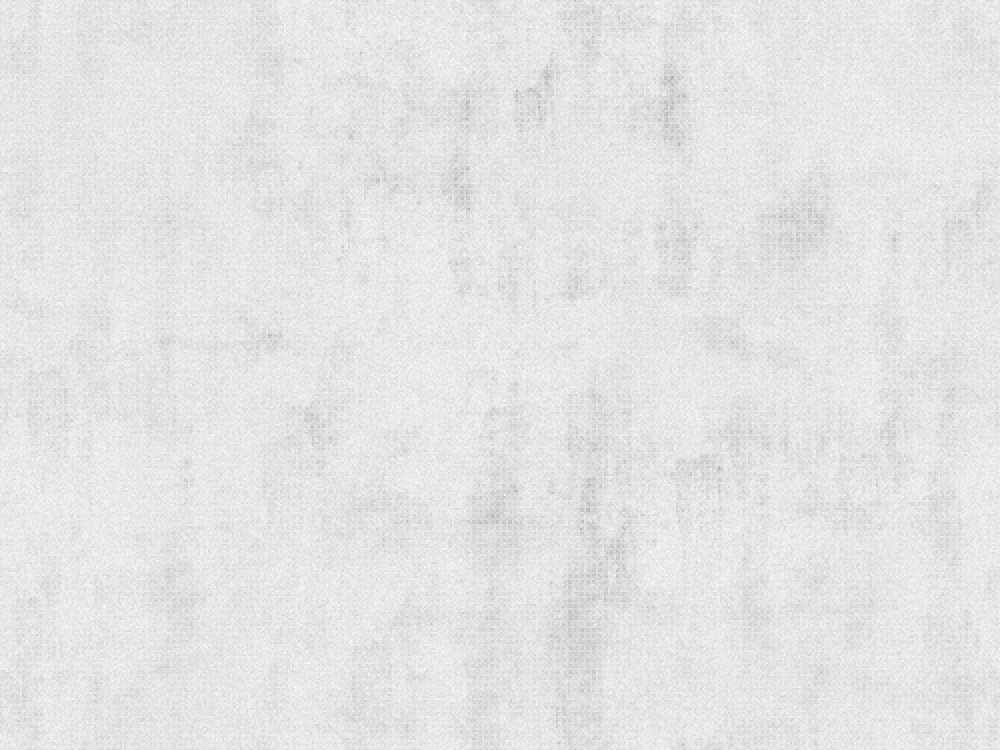
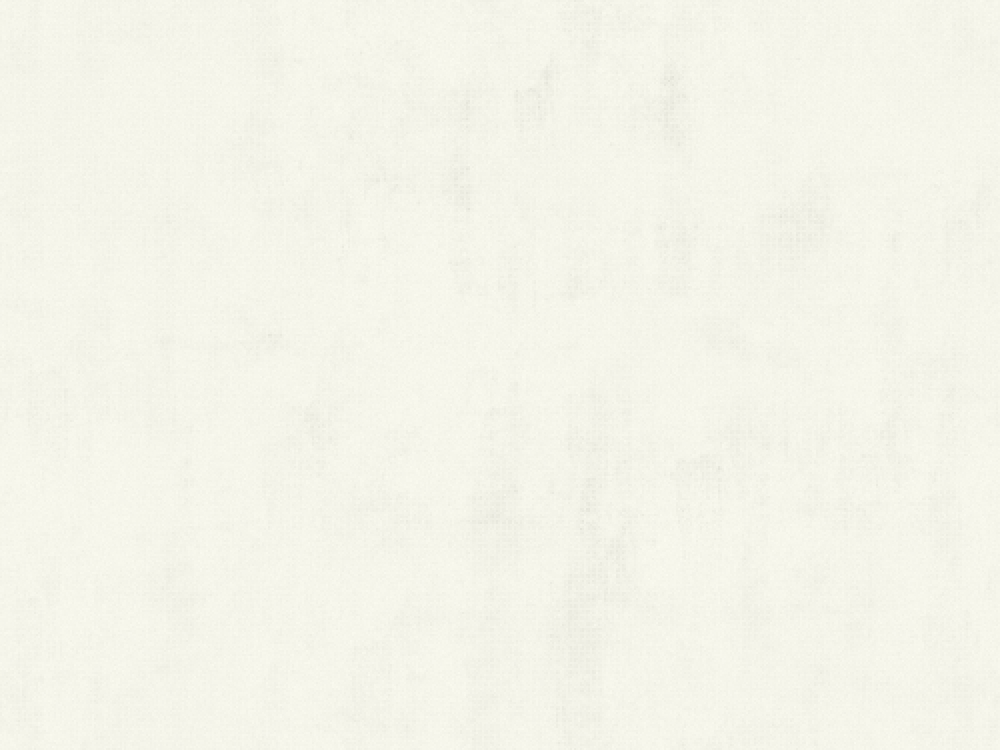
added sticky footer css.

diff --git a/assets/themes/salsacaribecouk/css/global.css b/assets/themes/salsacaribecouk/css/global.css
@@ -441,6 +441,11 @@ h1, h2, h3, h4, h5, h6 {
   content: "\21";
 }
 
+/* line 62, /Users/zapatoche/Dropbox/projects/salsacaribe/salsacaribecouk.github.com/assets/themes/salsacaribecouk/sass/partials/_typography.scss */
+address {
+  font-style: normal;
+}
+
 /* line 16, ../sass/global.scss */
 * {
   -webkit-box-sizing: border-box;
@@ -455,14 +460,23 @@ html {
 
 /* line 24, ../sass/global.scss */
 body {
-  background: url('/assets/images/rgbapng/fcfcf7b3.png?1350481834');
-  background: rgba(252, 252, 247, 0.7);
   margin: 0;
   padding: 0;
   font: 400 100%/1.5 "runda", "Helvetica Neue", Helvetica, Arial, sans-serif;
 }
 
-/* line 30, ../sass/global.scss */
+/* line 29, ../sass/global.scss */
+html, body, .body-inner {
+  height: 100%;
+}
+
+/* line 32, ../sass/global.scss */
+body > .body-inner {
+  height: auto;
+  min-height: 100%;
+}
+
+/* line 36, ../sass/global.scss */
 .content-wrapper {
   *zoom: 1;
   max-width: 59em;
@@ -591,12 +605,17 @@ body {
   float: left;
 }
 
-/* line 38, ../sass/global.scss */
+/* line 42, ../sass/global.scss */
+.container {
+  padding-bottom: 168px;
+}
+
+/* line 45, ../sass/global.scss */
 .content {
   position: relative;
 }
 
-/* line 41, ../sass/global.scss */
+/* line 48, ../sass/global.scss */
 .site-header {
   width: auto;
 }
@@ -625,7 +644,7 @@ body {
   padding: 1em;
 }
 
-/* line 46, ../sass/global.scss */
+/* line 53, ../sass/global.scss */
 .pills span {
   background: #000;
   color: #fff;
@@ -633,12 +652,21 @@ body {
   border-radius: 5px;
 }
 
-/* line 54, ../sass/global.scss */
+/* line 1, /Users/zapatoche/Dropbox/projects/salsacaribe/salsacaribecouk.github.com/assets/themes/salsacaribecouk/sass/partials/_site-footer.scss */
 footer, .site-footer {
+  clear: both;
+  font-family: "freight-sans-pro", "runda", "Helvetica Neue", Helvetica, Arial, sans-serif;
+}
+
+/* line 5, /Users/zapatoche/Dropbox/projects/salsacaribe/salsacaribecouk.github.com/assets/themes/salsacaribecouk/sass/partials/_site-footer.scss */
+.site-footer {
+  position: relative;
+  margin-top: -168px;
+  height: 168px;
   clear: both;
 }
 
-/* line 60, ../sass/global.scss */
+/* line 65, ../sass/global.scss */
 .pullquote-right:before,
 .pullquote-left:before {
   /* Reset metrics. */
@@ -658,14 +686,14 @@ footer, .site-footer {
   line-height: 30px;
 }
 
-/* line 81, ../sass/global.scss */
+/* line 86, ../sass/global.scss */
 .pullquote-left:before {
   float: left;
   margin: 12px 31px 24px -102px;
   width: 251px;
 }
 
-/* line 88, ../sass/global.scss */
+/* line 93, ../sass/global.scss */
 .embed-media-block {
   position: relative;
   padding-bottom: 56.25%;
@@ -676,7 +704,7 @@ footer, .site-footer {
   overflow: hidden;
 }
 
-/* line 99, ../sass/global.scss */
+/* line 104, ../sass/global.scss */
 .embed-media-block iframe,
 .embed-media-block object,
 .embed-media-block embed {
@@ -687,7 +715,7 @@ footer, .site-footer {
   height: 100%;
 }
 
-/* line 110, ../sass/global.scss */
+/* line 115, ../sass/global.scss */
 .location {
   *zoom: 1;
   widht: 100%;
@@ -698,7 +726,7 @@ footer, .site-footer {
   display: table;
   clear: both;
 }
-/* line 113, ../sass/global.scss */
+/* line 118, ../sass/global.scss */
 .location .vcard {
   width: 49.15254%;
   float: left;
@@ -706,16 +734,16 @@ footer, .site-footer {
   display: inline;
   padding-left: 6.77966%;
 }
-/* line 116, ../sass/global.scss */
+/* line 121, ../sass/global.scss */
 .location .vcard.last {
   margin-right: 0;
 }
-/* line 119, ../sass/global.scss */
+/* line 124, ../sass/global.scss */
 .location .vcard dd {
   margin: 0;
   position: relative;
 }
-/* line 123, ../sass/global.scss */
+/* line 128, ../sass/global.scss */
 .location .vcard dd span:first-child,
 .location .vcard dd .map-marker {
   color: #fff;
@@ -733,30 +761,39 @@ footer, .site-footer {
   -o-border-radius: 1em;
   border-radius: 1em;
 }
-/* line 137, ../sass/global.scss */
+/* line 142, ../sass/global.scss */
 .location .figure {
   clear: both;
 }
 
-/* line 143, ../sass/global.scss */
+/* line 148, ../sass/global.scss */
 a {
   color: black;
 }
 
-/* line 147, ../sass/global.scss */
+/* line 152, ../sass/global.scss */
 "h1, h2, h3, h4, h5, h6"  a {
   color: red;
   text-decoration: none;
 }
 
-/* line 153, ../sass/global.scss */
+/* line 157, ../sass/global.scss */
+[href^="tel"] {
+  text-decoration: none;
+}
+/* line 159, ../sass/global.scss */
+[href^="tel"]:hover {
+  color: #5296B1;
+}
+
+/* line 164, ../sass/global.scss */
 [aria-hidden] {
   font: 0/0 serif;
   text-shadow: none;
   color: transparent;
 }
 
-/* line 156, ../sass/global.scss */
+/* line 167, ../sass/global.scss */
 .visuallyhidden {
   position: absolute;
   left: -12345em;

diff --git a/assets/themes/salsacaribecouk/sass/global.scss b/assets/themes/salsacaribecouk/sass/global.scss
@@ -22,10 +22,16 @@ html {
   background: #fff url('/assets/images/skin/grunge_wall.png') repeat 0 0;
 }
 body {
-  @include rgba-background(hsla(60,50%,98%,.7));
   margin: 0;
   padding: 0;
   font: 400 100%/1.5 $body_font;
+}
+html, body, .body-inner {
+  height: 100%;
+}
+body > .body-inner {
+  height: auto;
+  min-height: 100%;
 }
 .content-wrapper {
   @include container;
@@ -34,6 +40,7 @@ body {
 @import "partials/site-header";
 
 .container {
+  padding-bottom: 168px;
 }
 .content {
   position: relative;
@@ -51,9 +58,7 @@ body {
   }
 }
 
-footer, .site-footer {
-  clear: both;
-}
+@import "partials/site-footer";
 
 // module pullquotes
 .pullquote-right:before,
@@ -149,6 +154,12 @@ a {
   text-decoration: none;
   }
 }
+[href^="tel"] {
+  text-decoration: none;
+  &:hover {
+  color: #5296B1;
+  }
+}
 // accessibility
 [aria-hidden] {
   @include squish-text;
@@ -157,3 +168,4 @@ a {
   position: absolute;
   left: -12345em;
 }
+

diff --git a/_includes/layouts/default.html b/_includes/layouts/default.html
@@ -31,11 +31,13 @@
   </head>
 
   <body class="{{ page.category | downcase }}">
-    {% include partials/site_header.html %}
-    {% include partials/site_nav.html %}
-    <div class="container content-wrapper">
-      <div class="content row">
-        {{ content }}
+    <div class="body-inner">
+      {% include partials/site_header.html %}
+      {% include partials/site_nav.html %}
+      <div class="container content-wrapper">
+        <div class="content row">
+          {{ content }}
+        </div>
       </div>
     </div>
     {% include partials/site_footer.html %}

diff --git a/_includes/partials/site_footer.html b/_includes/partials/site_footer.html
@@ -1,7 +1,7 @@
 <footer class="footer site-footer" rol"contentinfo>
   <div class="content-wrapper">
     <address>
-      For more information, contact <a href="mailto:info@salsacaribe.co.uk">info@salsacaribe.co.uk</a> or give us a call {{ site.vcard.phone }}
+      For more information, contact <a href="mailto:info@salsacaribe.co.uk">info@salsacaribe.co.uk</a> or give us a call <a href="tel:{{ site.vcard.phone.machine }}">{{ site.vcard.phone.human }}</a>
     </address>
     <p>&copy; {{ site.vcard.name }} 2012</p>
   </div>

diff --git a/assets/themes/salsacaribecouk/sass/partials/_site-footer.scss b/assets/themes/salsacaribecouk/sass/partials/_site-footer.scss
@@ -1,0 +1,10 @@
+footer, .site-footer {
+  clear: both;
+  font-family: "freight-sans-pro", $body_font;
+}
+.site-footer {
+  position: relative;
+  margin-top: -168px;
+  height: 168px;
+  clear: both;
+}

diff --git a/assets/themes/salsacaribecouk/sass/partials/_typography.scss b/assets/themes/salsacaribecouk/sass/partials/_typography.scss
@@ -58,4 +58,7 @@
 	content: "\21";
 }
 
-
+// line elements
+address {
+  font-style: normal;
+}
